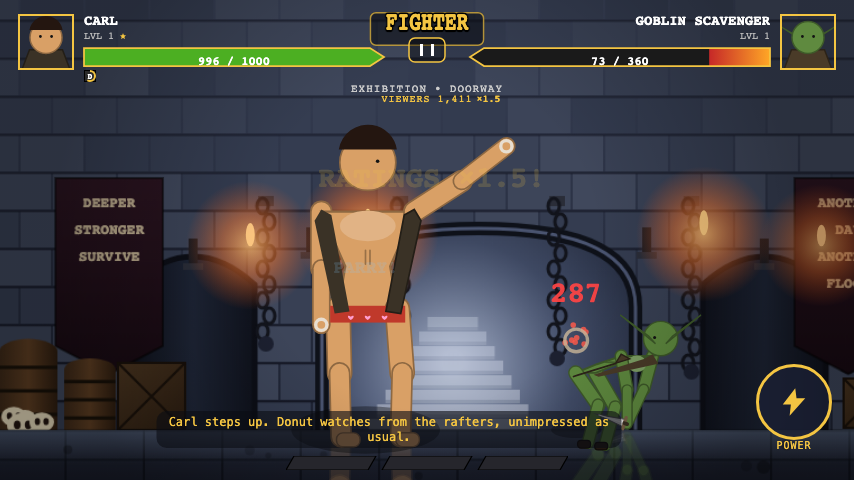
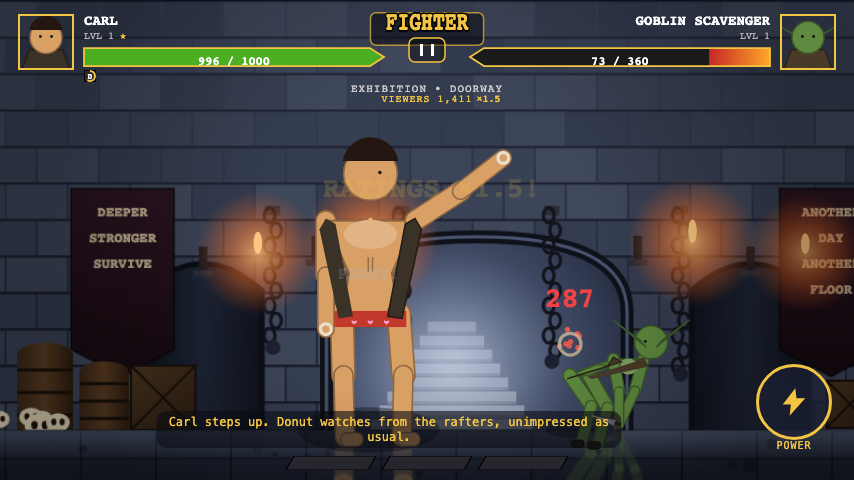
fix: lower camTarget's zoom ramp ceiling to 1.06 so punch-in has headroom (I2)
Fight.updateCam's distance-based zoom ramp saturated at 1.12 for any gap
under ~120px -- exactly the gameplay cap Camera.update composes the punch
against, so HITFEEL.<class>.punch (medium 2%, heavy 4%, intercept 5%) had
nowhere to go at the distances hits actually land, erasing the per-class
differentiation the hit-feel pass was built around. Lowering the ramp's
own ceiling to 1.06 (capNow, the HUD-clearance gameplay cap, stays 1.12)
gives the punch real headroom to compose up to the cap.

Retargeted the existing punch-composition test from a synthetic capNow of
1.2 to the real gameplay cap of 1.12, and added a new test that measures
the actual gain at real landing distances (110/130/160px) against real
MOVES/HITFEEL data. Regenerated docs/shots/p7-intercept.png and
docs/shots/p7-heavy.png (framing is visibly ~5% tighter at close range);
p7-s3.png is untouched since the S3 cinematic card uses its own separate
1.28 cap, not this ramp.

diff --git a/index.html b/index.html
@@ -2568,8 +2568,16 @@ class Fight{
   // 120-500 distance range, just a smaller max, since the rescaled rig at 1.35 put a raised-arm
   // pose's hand above the HUD (see 68_rig.js's 'tallest pose stays under the HUD at max zoom' test;
   // the still-higher 1.28 cinematic-only cap is G's, not the sim's — Fight never reaches it itself).
+  // Fix-wave item 2 (final review I2): this ramp's own ceiling is now 1.06, not 1.12 -- the gameplay
+  // cap G passes into Camera.update as capNow (80_game.js's zoomCap) is UNCHANGED at 1.12 (HUD
+  // clearance still holds at that number, see 68_rig.js's own test), but this base target used to
+  // already saturate at 1.12 for any real hit-landing distance, leaving the per-class camera punch
+  // percentage (HITFEEL.<class>.punch, composed by Camera.update as min(base*(1+punch), capNow))
+  // nowhere to go -- punch was being composed against a base already sitting AT the cap. Lowering
+  // the ramp's own ceiling to 1.06 gives the punch real headroom up to 1.12 at the distances hits
+  // actually land (see the fix-wave I2 test just below the punch composition tests, 90_tests.js).
   updateCam(){const dist=Math.abs(this.p2.x-this.p1.x);
-    this.camTarget={x:(this.p1.x+this.p2.x)/2,zoom:clamp(1.12-(dist-120)/380*0.12,1,1.12)}}
+    this.camTarget={x:(this.p1.x+this.p2.x)/2,zoom:clamp(1.06-(dist-120)/380*0.12,1,1.06)}}
   step(){if(this.over)return;if(this.cinematic>0)return;if(this.hitstop>0){this.hitstop--;return}
     this.frame++;this.clock-=STEP;
     // Task 6.2: fighter.foeDist is the live hurtbox-edge gap, written before either side's
@@ -10883,17 +10891,37 @@ Test.add('camera punch-in composes as min(base*(1+FX.punch), capNow): it actuall
   // Same base target (1.0) and a generous cap (1.2) both runs below, so the only variable between
   // the two cams is FX.punch itself -- if Camera.update ignored FX.punch entirely, both would settle
   // at the exact same zoom, which the "camB must end up strictly above camA" assertion below rules out.
+  // Fix-wave item 2 (final review I2): retargeted from capNow=1.2 (well above anything gameplay
+  // ever uses) to the real gameplay ceiling, 1.12 -- see Fight.camTarget's own ramp, now capped at
+  // 1.06 so the punch has headroom to actually move zoom before hitting 1.12.
   const f={camTarget:{x:0,zoom:1.0}};
   const camA={x:0,zoom:1},camB={x:0,zoom:1};
-  FX.punch=0;for(let i=0;i<200;i++)Camera.update(camA,f,null,1.2);
-  FX.punch=.1;for(let i=0;i<200;i++){Camera.update(camB,f,null,1.2);ok(camB.zoom<=1.2+1e-9,'cam.zoom must never exceed capNow, got '+camB.zoom)}
+  FX.punch=0;for(let i=0;i<200;i++)Camera.update(camA,f,null,1.12);
+  FX.punch=.1;for(let i=0;i<200;i++){Camera.update(camB,f,null,1.12);ok(camB.zoom<=1.12+1e-9,'cam.zoom must never exceed capNow, got '+camB.zoom)}
   ok(camB.zoom>camA.zoom,'a nonzero FX.punch must raise cam.zoom above the plain base-target zoom: base='+camA.zoom+' punched='+camB.zoom);
-  ok(Math.abs(camB.zoom-1.1)<0.01,'camB must settle at base*(1+punch)=1.1 (well under the 1.2 cap), got '+camB.zoom);
-  // Now push punch past what the cap allows: base 1.0 * (1+.5) = 1.5, capped at 1.2.
+  ok(Math.abs(camB.zoom-1.1)<0.01,'camB must settle at base*(1+punch)=1.1 (well under the 1.12 cap), got '+camB.zoom);
+  // Now push punch past what the cap allows: base 1.0 * (1+.5) = 1.5, capped at 1.12.
   FX.punch=.5;const camC={x:0,zoom:1};
-  for(let i=0;i<200;i++){Camera.update(camC,f,null,1.2);ok(camC.zoom<=1.2+1e-9,'cam.zoom must never exceed capNow even when punch alone would exceed it, got '+camC.zoom)}
-  ok(Math.abs(camC.zoom-1.2)<0.01,'camC must settle at the cap (1.2), not at the uncapped base*(1+punch)=1.5, got '+camC.zoom);
+  for(let i=0;i<200;i++){Camera.update(camC,f,null,1.12);ok(camC.zoom<=1.12+1e-9,'cam.zoom must never exceed capNow even when punch alone would exceed it, got '+camC.zoom)}
+  ok(Math.abs(camC.zoom-1.12)<0.01,'camC must settle at the cap (1.12), not at the uncapped base*(1+punch)=1.5, got '+camC.zoom);
   FX.punch=0;FX.reset()});
+// Fix-wave item 2 (final review I2): the composition-math test above proves Camera.update's own
+// arithmetic; this one proves the shipped behavior -- that at REAL landing distances, against the
+// REAL gameplay cap (1.12), the punch actually moves the composed zoom target measurably above the
+// un-punched one, per class. Distances are the review's own measured landing gaps: 110px pairs with
+// an intercept (any light/medium startup is interceptable, HITFEEL.intercept.punch=.05), 130px with
+// a heavy (HITFEEL.heavy.punch=.04), 160px with a medium (HITFEEL.medium.punch=.02).
+Test.add('fix-wave I2: camera punch-in is no longer inert at real gameplay distances/cap -- it measurably raises the composed zoom target for medium/heavy/intercept',()=>{
+  const f=mkFight();f.p1.x=0;f.p2.x=110;f.updateCam();
+  const capNow=1.12;
+  const gainAt=(dist,pct)=>{f.p1.x=0;f.p2.x=dist;f.updateCam();
+    const base=f.camTarget.zoom,punched=Math.min(base*(1+pct),capNow);return punched-base};
+  const gMedium=gainAt(160,HITFEEL.medium.punch);
+  const gHeavy=gainAt(130,HITFEEL.heavy.punch);
+  const gIntercept=gainAt(110,HITFEEL.intercept.punch);
+  ok(gMedium>=0.015,'medium punch at 160px must gain at least 0.015 (2%) over the un-punched target, got '+gMedium);
+  ok(gHeavy>=0.035,'heavy punch at 130px must gain at least 0.035 (4%) over the un-punched target, got '+gHeavy);
+  ok(gIntercept>=0.045,'intercept punch at 110px must gain at least 0.045 (5%) over the un-punched target, got '+gIntercept)});
 Test.add('FX.punch envelope: jumps to the pushed target, holds, then eases back to exactly 0',()=>{
   FX.reset();
   FX.push({kind:'punch',pct:.05});

diff --git a/src/90_tests.js b/src/90_tests.js
@@ -4261,17 +4261,37 @@ Test.add('camera punch-in composes as min(base*(1+FX.punch), capNow): it actuall
   // Same base target (1.0) and a generous cap (1.2) both runs below, so the only variable between
   // the two cams is FX.punch itself -- if Camera.update ignored FX.punch entirely, both would settle
   // at the exact same zoom, which the "camB must end up strictly above camA" assertion below rules out.
+  // Fix-wave item 2 (final review I2): retargeted from capNow=1.2 (well above anything gameplay
+  // ever uses) to the real gameplay ceiling, 1.12 -- see Fight.camTarget's own ramp, now capped at
+  // 1.06 so the punch has headroom to actually move zoom before hitting 1.12.
   const f={camTarget:{x:0,zoom:1.0}};
   const camA={x:0,zoom:1},camB={x:0,zoom:1};
-  FX.punch=0;for(let i=0;i<200;i++)Camera.update(camA,f,null,1.2);
-  FX.punch=.1;for(let i=0;i<200;i++){Camera.update(camB,f,null,1.2);ok(camB.zoom<=1.2+1e-9,'cam.zoom must never exceed capNow, got '+camB.zoom)}
+  FX.punch=0;for(let i=0;i<200;i++)Camera.update(camA,f,null,1.12);
+  FX.punch=.1;for(let i=0;i<200;i++){Camera.update(camB,f,null,1.12);ok(camB.zoom<=1.12+1e-9,'cam.zoom must never exceed capNow, got '+camB.zoom)}
   ok(camB.zoom>camA.zoom,'a nonzero FX.punch must raise cam.zoom above the plain base-target zoom: base='+camA.zoom+' punched='+camB.zoom);
-  ok(Math.abs(camB.zoom-1.1)<0.01,'camB must settle at base*(1+punch)=1.1 (well under the 1.2 cap), got '+camB.zoom);
-  // Now push punch past what the cap allows: base 1.0 * (1+.5) = 1.5, capped at 1.2.
+  ok(Math.abs(camB.zoom-1.1)<0.01,'camB must settle at base*(1+punch)=1.1 (well under the 1.12 cap), got '+camB.zoom);
+  // Now push punch past what the cap allows: base 1.0 * (1+.5) = 1.5, capped at 1.12.
   FX.punch=.5;const camC={x:0,zoom:1};
-  for(let i=0;i<200;i++){Camera.update(camC,f,null,1.2);ok(camC.zoom<=1.2+1e-9,'cam.zoom must never exceed capNow even when punch alone would exceed it, got '+camC.zoom)}
-  ok(Math.abs(camC.zoom-1.2)<0.01,'camC must settle at the cap (1.2), not at the uncapped base*(1+punch)=1.5, got '+camC.zoom);
+  for(let i=0;i<200;i++){Camera.update(camC,f,null,1.12);ok(camC.zoom<=1.12+1e-9,'cam.zoom must never exceed capNow even when punch alone would exceed it, got '+camC.zoom)}
+  ok(Math.abs(camC.zoom-1.12)<0.01,'camC must settle at the cap (1.12), not at the uncapped base*(1+punch)=1.5, got '+camC.zoom);
   FX.punch=0;FX.reset()});
+// Fix-wave item 2 (final review I2): the composition-math test above proves Camera.update's own
+// arithmetic; this one proves the shipped behavior -- that at REAL landing distances, against the
+// REAL gameplay cap (1.12), the punch actually moves the composed zoom target measurably above the
+// un-punched one, per class. Distances are the review's own measured landing gaps: 110px pairs with
+// an intercept (any light/medium startup is interceptable, HITFEEL.intercept.punch=.05), 130px with
+// a heavy (HITFEEL.heavy.punch=.04), 160px with a medium (HITFEEL.medium.punch=.02).
+Test.add('fix-wave I2: camera punch-in is no longer inert at real gameplay distances/cap -- it measurably raises the composed zoom target for medium/heavy/intercept',()=>{
+  const f=mkFight();f.p1.x=0;f.p2.x=110;f.updateCam();
+  const capNow=1.12;
+  const gainAt=(dist,pct)=>{f.p1.x=0;f.p2.x=dist;f.updateCam();
+    const base=f.camTarget.zoom,punched=Math.min(base*(1+pct),capNow);return punched-base};
+  const gMedium=gainAt(160,HITFEEL.medium.punch);
+  const gHeavy=gainAt(130,HITFEEL.heavy.punch);
+  const gIntercept=gainAt(110,HITFEEL.intercept.punch);
+  ok(gMedium>=0.015,'medium punch at 160px must gain at least 0.015 (2%) over the un-punched target, got '+gMedium);
+  ok(gHeavy>=0.035,'heavy punch at 130px must gain at least 0.035 (4%) over the un-punched target, got '+gHeavy);
+  ok(gIntercept>=0.045,'intercept punch at 110px must gain at least 0.045 (5%) over the un-punched target, got '+gIntercept)});
 Test.add('FX.punch envelope: jumps to the pushed target, holds, then eases back to exactly 0',()=>{
   FX.reset();
   FX.push({kind:'punch',pct:.05});

diff --git a/src/60_fight.js b/src/60_fight.js
@@ -15,8 +15,16 @@ class Fight{
   // 120-500 distance range, just a smaller max, since the rescaled rig at 1.35 put a raised-arm
   // pose's hand above the HUD (see 68_rig.js's 'tallest pose stays under the HUD at max zoom' test;
   // the still-higher 1.28 cinematic-only cap is G's, not the sim's — Fight never reaches it itself).
+  // Fix-wave item 2 (final review I2): this ramp's own ceiling is now 1.06, not 1.12 -- the gameplay
+  // cap G passes into Camera.update as capNow (80_game.js's zoomCap) is UNCHANGED at 1.12 (HUD
+  // clearance still holds at that number, see 68_rig.js's own test), but this base target used to
+  // already saturate at 1.12 for any real hit-landing distance, leaving the per-class camera punch
+  // percentage (HITFEEL.<class>.punch, composed by Camera.update as min(base*(1+punch), capNow))
+  // nowhere to go -- punch was being composed against a base already sitting AT the cap. Lowering
+  // the ramp's own ceiling to 1.06 gives the punch real headroom up to 1.12 at the distances hits
+  // actually land (see the fix-wave I2 test just below the punch composition tests, 90_tests.js).
   updateCam(){const dist=Math.abs(this.p2.x-this.p1.x);
-    this.camTarget={x:(this.p1.x+this.p2.x)/2,zoom:clamp(1.12-(dist-120)/380*0.12,1,1.12)}}
+    this.camTarget={x:(this.p1.x+this.p2.x)/2,zoom:clamp(1.06-(dist-120)/380*0.12,1,1.06)}}
   step(){if(this.over)return;if(this.cinematic>0)return;if(this.hitstop>0){this.hitstop--;return}
     this.frame++;this.clock-=STEP;
     // Task 6.2: fighter.foeDist is the live hurtbox-edge gap, written before either side's
